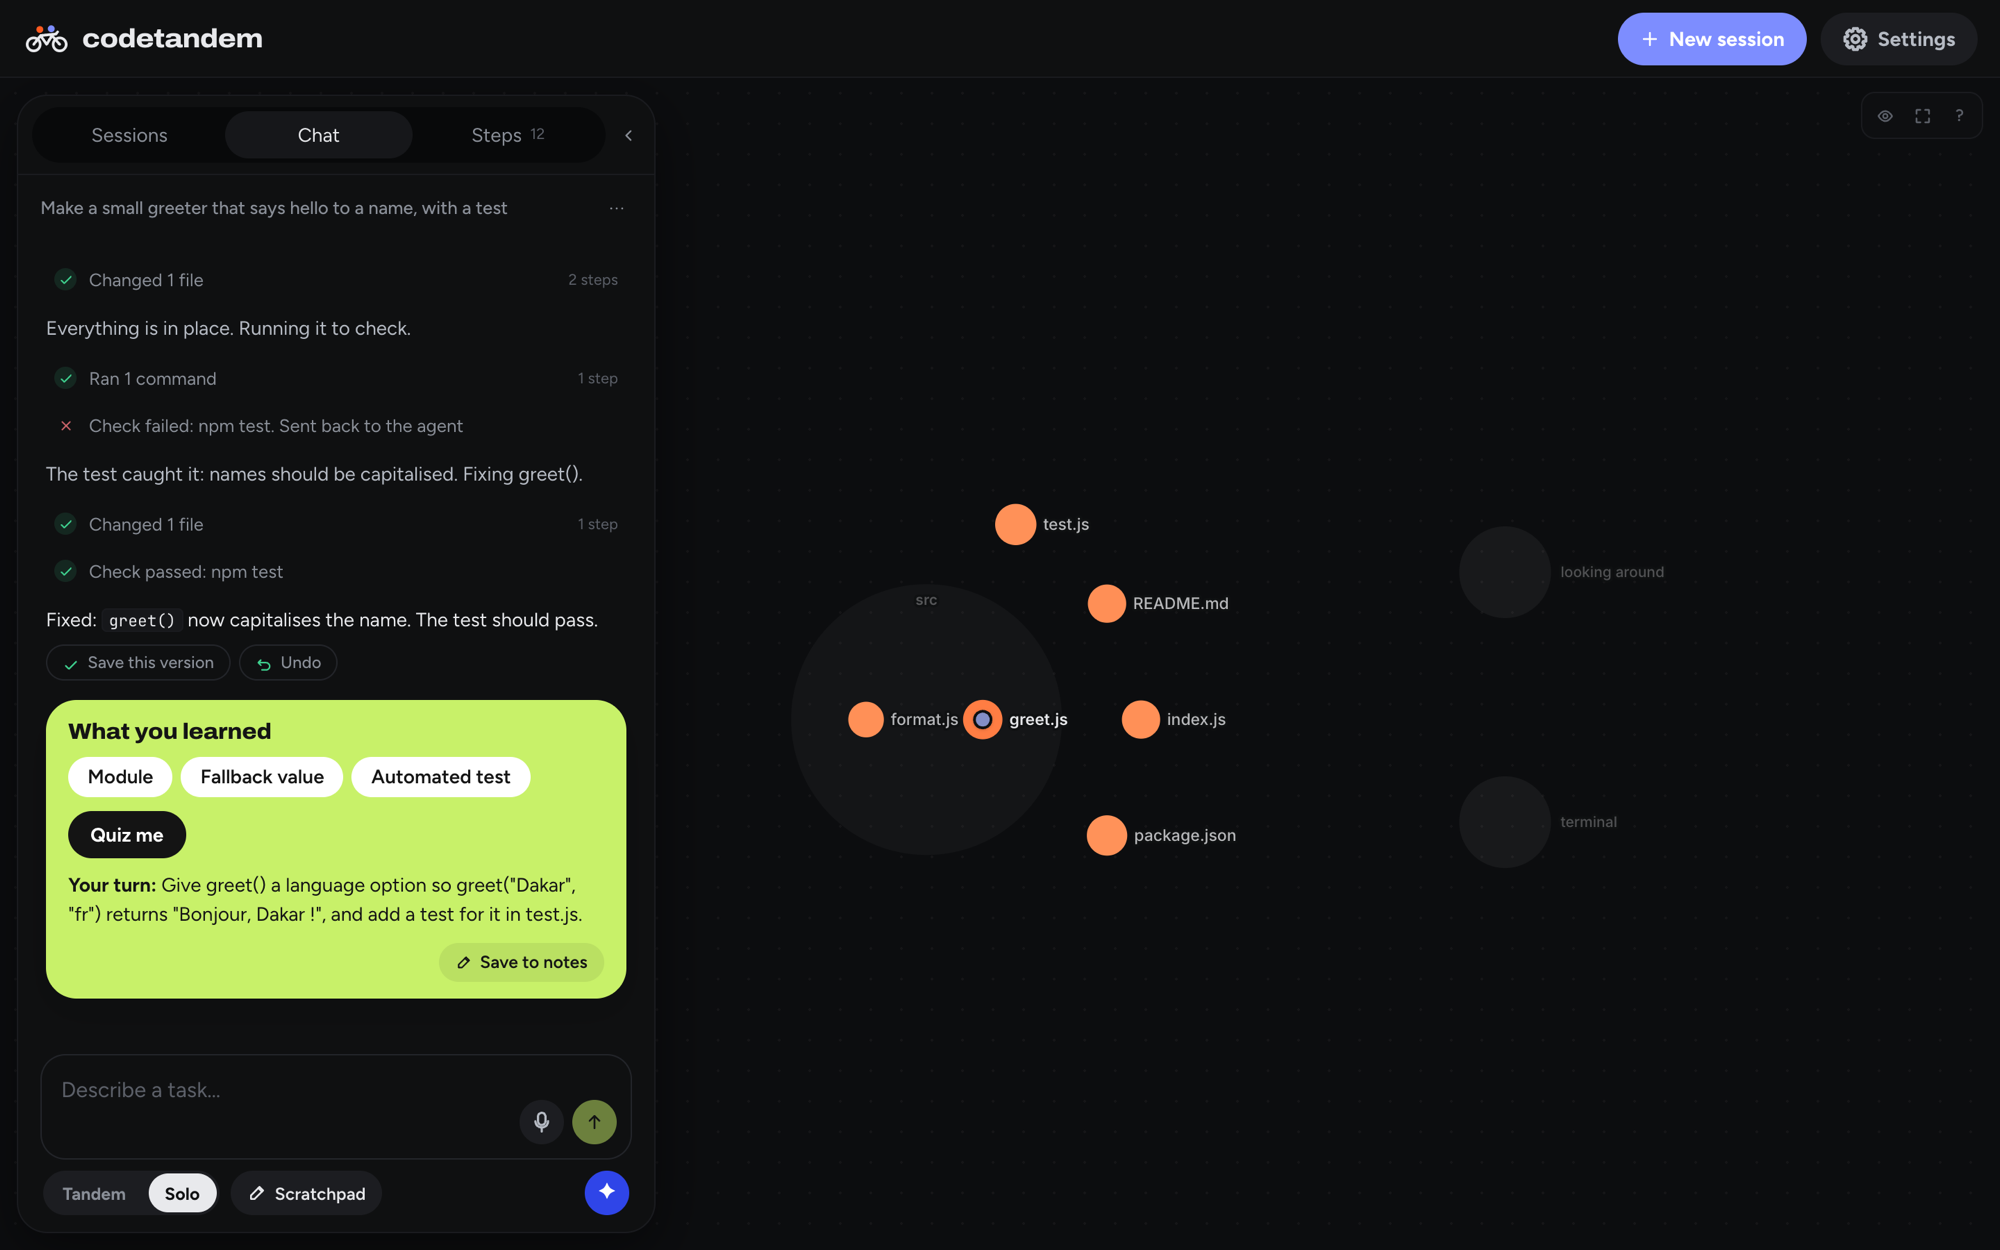
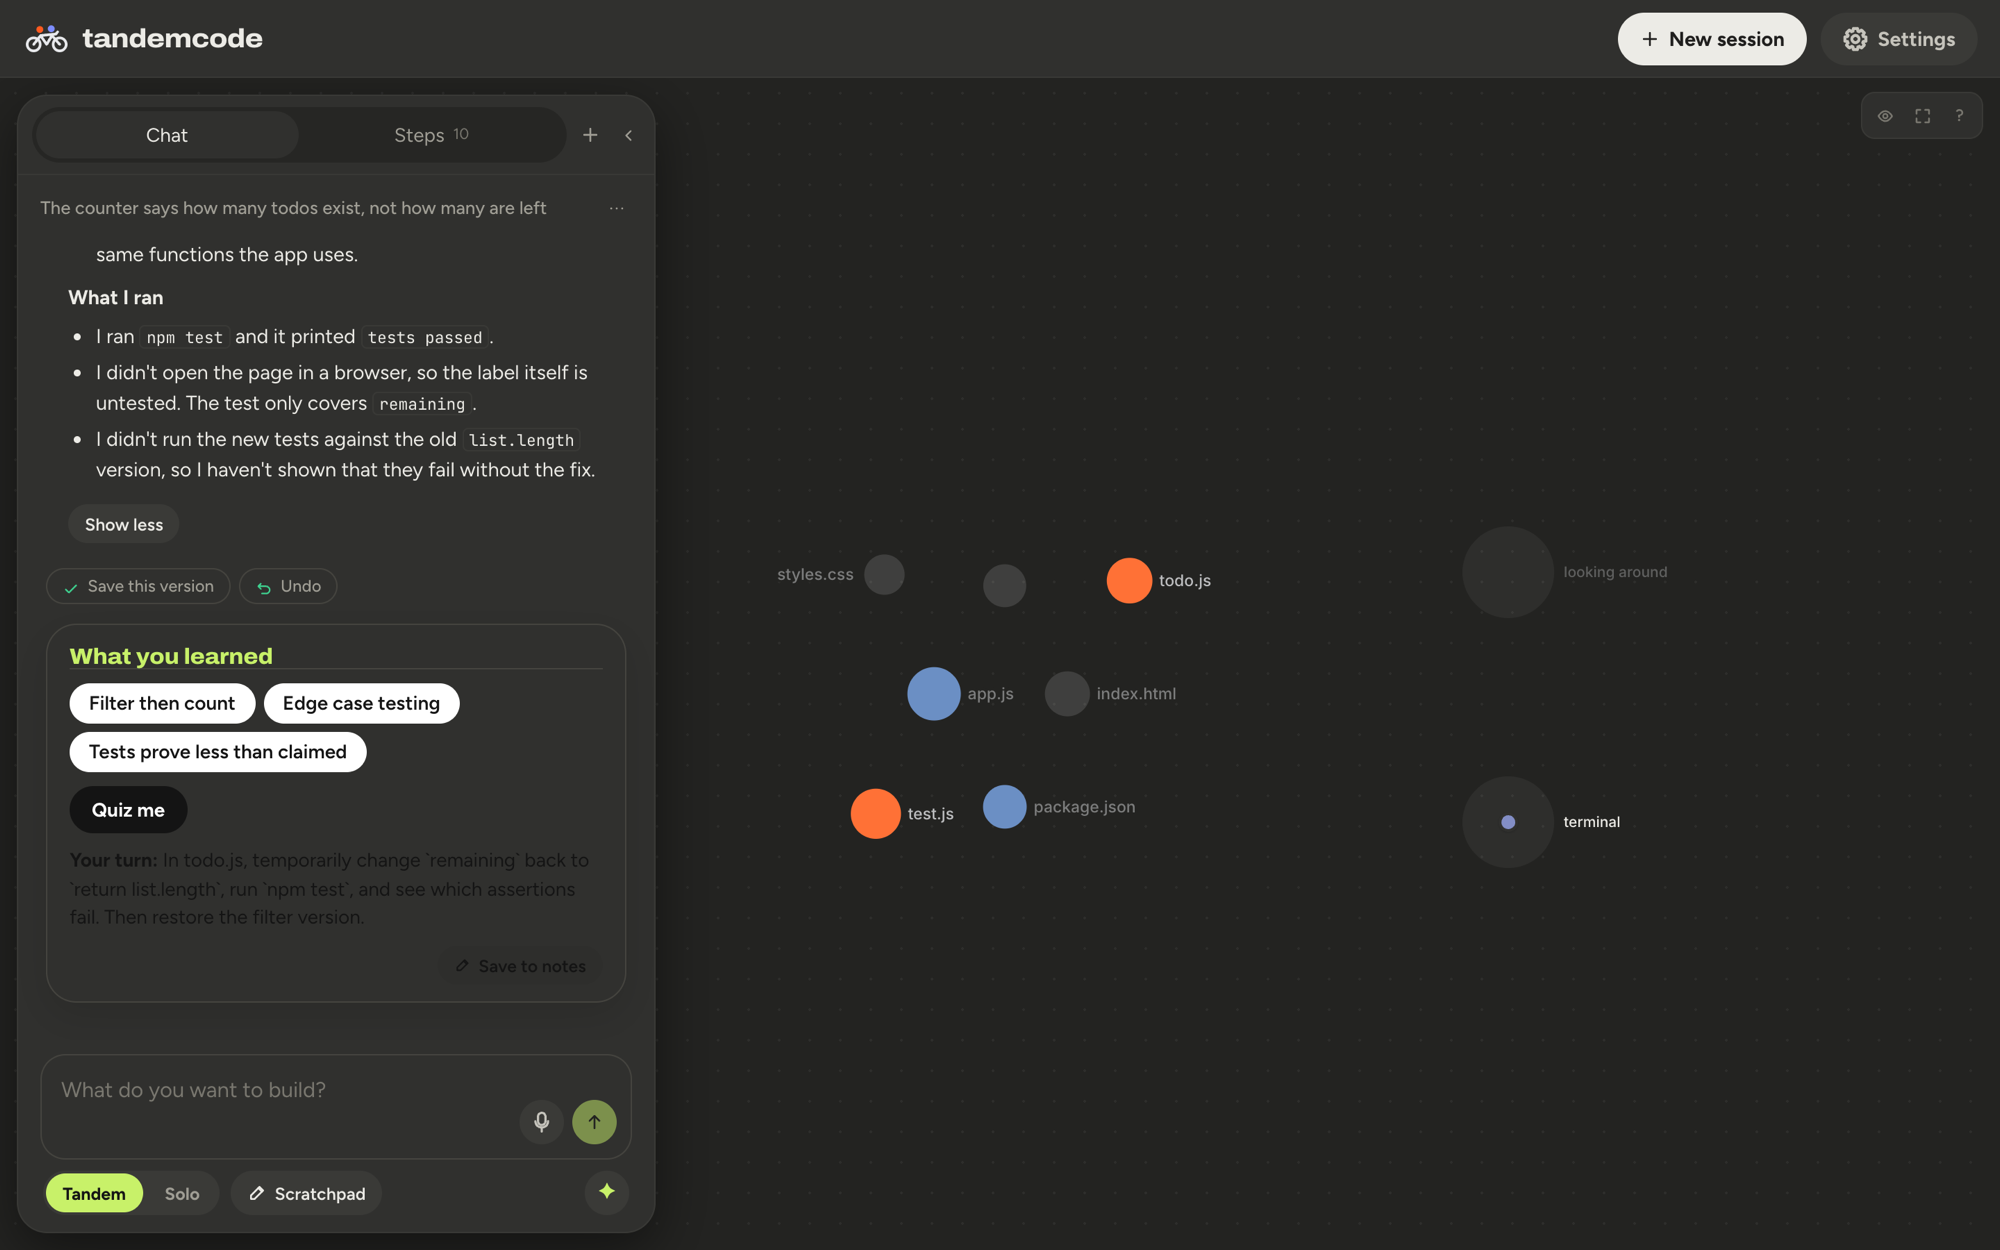
README and landing: the demo video, the Tandemcode agent, new screenshots
- The demo video is linked at the top of the README and on the landing page
  (a hero link and an embed above the last call to action)
- The README no longer calls the scripted model the demo: the default is the
  Tandemcode agent on Claude Sonnet; npm run mock is for development and tests
- New screenshots from a real Tandemcode agent run (Default and Dark themes,
  the Go ahead card) and the landing page
- Settings → Agents, three themes, rewind by scrolling the steps, models table

diff --git a/web/src/Landing.tsx b/web/src/Landing.tsx
@@ -173,6 +173,7 @@ export function Landing({ onStart, onLogo }: { onStart: () => void; onLogo?: () 
         <div className="lp-cta-row">
           <button className="lp-cta" onClick={onStart}>{t('Take a ride', 'Faire un tour')}</button>
           <button className="lp-ghost" onClick={() => go('lp-learn')}>{t('See how it works', 'Voir comment ça marche')} ↓</button>
+          <a className="lp-ghost" href="https://youtu.be/h9uvHVJPNxg" target="_blank" rel="noreferrer">▶ {t('Watch the video', 'Voir la vidéo')}</a>
         </div>
         </div>
         <HeroMap t={t} />
@@ -219,9 +220,12 @@ export function Landing({ onStart, onLogo }: { onStart: () => void; onLogo?: () 
         <div className="lp-checker" aria-hidden="true" />
         <h2>{t('Ready to ride?', 'Prêt à rouler ?')}</h2>
         <p>{t('Open one of your projects, or start from an empty one. Open source, MIT, runs on your own computer.', 'Ouvre un de tes projets, ou pars d’un projet vide. Open source, MIT, tourne sur ton ordinateur.')}</p>
+        <iframe src="https://www.youtube-nocookie.com/embed/h9uvHVJPNxg" title={t('Tandemcode demo video', 'Vidéo de démo de Tandemcode')} loading="lazy"
+          allow="accelerometer; encrypted-media; gyroscope; picture-in-picture; fullscreen" allowFullScreen
+          style={{ display: 'block', width: '100%', maxWidth: 880, aspectRatio: '16 / 9', margin: '8px auto 28px', border: 0, borderRadius: 20 }} />
         <div className="lp-cta-row">
           <button className="lp-cta lp-big" onClick={onStart}>{t('Try it live', 'Essayer en direct')}</button>
-          <a className="lp-ghost" href="https://github.com/Djbrl/agent-stage" target="_blank" rel="noreferrer">{t('Source on GitHub', 'Code sur GitHub')}</a>
+          <a className="lp-ghost" href="https://github.com/Djbrl/codetandem-harness" target="_blank" rel="noreferrer">{t('Source on GitHub', 'Code sur GitHub')}</a>
         </div>
       </section>
       </div>

diff --git a/README.md b/README.md
@@ -1,6 +1,6 @@
 # Tandemcode
 
-### ▶ Try it live: **[tandemcode-app.vercel.app](https://tandemcode-app.vercel.app)**
+### ▶ Try it live: **[tandemcode-app.vercel.app](https://tandemcode-app.vercel.app)** · 🎬 [Watch the demo video](https://youtu.be/h9uvHVJPNxg)
 
 *They pedal, you steer.* **The coding-agent harness for learners**: an AI coding agent you ride along with, so you
 understand the code it writes instead of just shipping it.
@@ -17,22 +17,22 @@ understand the code it writes instead of just shipping it.
 - ✅ **Done means checked.** The harness runs your tests when the agent says it's finished, and sends failures back.
 - ↩ **You stay in control.** Approve every command, stop or steer mid-run, undo just what the task changed.
 - ✏ **Ask without interrupting.** Select anything to ask about it, or sketch what you mean in the Scratchpad.
-- 🔓 **Open models first.** Qwen3-Coder on your own GPU, Ollama offline with no API bill, or Claude. MIT licensed.
+- 🔓 **Any model.** Our own Tandemcode agent on Claude by default, or open models: Qwen3-Coder on your own GPU, or Ollama offline with no API bill. MIT licensed.
 
-![A finished run: the files the agent wrote are lit on the map, a failing test was sent back and fixed, and the task ends with what you learned](docs/screenshots/studio-light.png)
+![A finished Tandem run on a todo app: the two files the agent changed are lit on the map, it reports what it ran and what it didn't check, and the task ends with what you learned](docs/screenshots/studio-light.png)
 
-<!-- Demo video (≤ 3 min): add the link here before submitting. -->
+[![The demo video: click to watch it on YouTube](https://img.youtube.com/vi/h9uvHVJPNxg/hqdefault.jpg)](https://youtu.be/h9uvHVJPNxg)
 
 > Open Source × AI Hackathon 2026 (Galsen Dev): track **Éducation & apprentissage**.
-> The live demo runs on our own machine when we're online; any time, `npm run mock` runs it on your computer in a
-> minute, no key needed ([Quick start](#quick-start)).
+> The live demo runs on our own machine when we're online. Any time, you can run it on your own computer with an
+> Anthropic API key, or with an open model through Ollama ([Quick start](#quick-start)).
 
 **En bref.** De plus en plus de développeurs et d'étudiants livrent du code écrit par une IA qu'ils ne savent ni lire,
 ni expliquer, ni corriger : l'IA fait le travail et ils n'apprennent rien. Tandemcode garde l'humain dans la boucle.
 L'agent se déplace sur une carte de votre projet, le mode Tandem (par défaut) l'arrête pour vous demander votre avis
 avant d'écrire du code, chaque étape est expliquée en mots simples, et vous pouvez demander « pourquoi », rejouer et
-annuler. Il fonctionne avec des modèles ouverts (Qwen3-Coder sur notre GPU, Ollama hors ligne, sans facture d'API) ou
-avec Claude. Licence MIT.
+annuler. Il fonctionne avec notre agent Tandemcode sur Claude (par défaut) ou avec des modèles ouverts (Qwen3-Coder sur
+notre GPU, Ollama hors ligne, sans facture d'API). Licence MIT. Vidéo de démo : https://youtu.be/h9uvHVJPNxg
 
 ## The problem
 Developers and students increasingly ship code an AI wrote that they can't read, explain or fix: the AI does the work,
@@ -65,7 +65,7 @@ and understands.
   edits. Fresh edits glow, failures show, and the camera follows the work.
 - **Plain-language steps.** Every action gets a short label and a "why". Any diff has "Explain this change".
   This works in English or French.
-- **Replay** any thread and watch the agent walk the project again.
+- **Rewind.** Scroll the Steps list and the map moves back through the run, one step at a time.
 
 **Stay in control**
 - **Approve** every shell command.
@@ -76,12 +76,13 @@ and understands.
   back to the agent ("not done yet"). A missing test tool is reported, not blamed on the agent.
 
 **Practical**
-- **Any model.** Our own GPU (one-click Brev + vLLM, auto-stop), Ollama on your own computer, NVIDIA, OpenRouter, the
-  Claude API, or the Claude Code engine. The map, Tandem mode and approvals work the same on all of them.
+- **Any model.** The Tandemcode agent (our own loop, on Claude Sonnet by default), the Claude Code engine, our own GPU
+  (one-click Brev + vLLM, auto-stop), Ollama on your own computer, NVIDIA or OpenRouter. Switch mid-session and the
+  conversation carries over. The map, Tandem mode and approvals work the same on all of them.
 - **Costs in view.** Tokens per thread, spend estimates, GPU time, and compact or clear a thread's context on demand.
 - **Computer use.** The agent drives your Chrome as text (page text plus numbered controls), so open models can test
   the web apps they build.
-- **Comfort.** Light and dark themes, voice prompting, works on a phone.
+- **Comfort.** Three themes (Default, a muted Dark, and Stone), voice prompting, works on a phone.
 - **Live online demo.** Each visitor gets a private, sealed Docker sandbox ([docs/PUBLIC-DEMO.md](docs/PUBLIC-DEMO.md)).
 
 **Made for learning**
@@ -93,20 +94,22 @@ and understands.
   drop in a screenshot and circle what should change; Claude and Claude Code see the drawing. Select any part of the
   agent's work to ask about it, save the answer to your notes, or turn the note and sketch into a real task.
 
-![Tandem mode: the agent asked how to split the code, explained the idea, and waits for "Go ahead"; the planned files are dotted on the map](docs/screenshots/tandem.png)
+![Tandem mode: after the learner said how they would fix the bug, the agent proposes the exact change and waits for "Go ahead"; the files it plans to touch are dotted on the map](docs/screenshots/tandem.png)
 
-![The same finished run in the dark theme](docs/screenshots/studio-dark.png)
+![The same finished run in the Dark theme](docs/screenshots/studio-dark.png)
+
+![The landing page, also the live demo's front door](docs/screenshots/landing.png)
 
 ## Status
 Working and tested end to end:
-- the scripted demo model;
+- the Tandemcode agent on Claude Sonnet 5.5 (the default), Claude Opus, and the Claude Code engine;
 - Qwen3-Coder on our GPU, locally and through the online demo;
-- the Claude API and the Claude Code engine with a real key;
 - Undo and Keep, the done-check, the browser tools, and the sandbox isolation.
 
 Included but not yet tested end to end by us: the Ollama preset (`qwen3-coder:30b`) and NVIDIA-hosted Nemotron.
 
-Without a key the app runs a scripted demo model, so you can try it in 10 seconds.
+The default agent runs on Claude, so it needs an Anthropic API key. For no API bill, set up Ollama or your own GPU in
+Settings → Agents.
 
 ## Quick start
 Requires Node ≥ 22.18.
@@ -114,14 +117,14 @@ Requires Node ≥ 22.18.
 ```bash
 git clone https://github.com/Djbrl/codetandem-harness && cd codetandem-harness
 npm install
-npm run mock         # → http://localhost:3000 on the scripted demo model: no key, GPU or network
-npm start            # the same, with the real models you add in Settings
+npm start            # → http://localhost:3000, then add a key or a model in Settings → Agents
+npm run mock         # the interface on a scripted model, no key or network (for development and the tests)
 ```
 
-To use a real model, open Settings → Models in the app and add its key there. For Claude you can
-instead put `ANTHROPIC_API_KEY` in a `.env` file (copy `.env.example`) and restart. Settings also has the
-one-click GPU (Brev + vLLM).
-The agent works inside `./workspace`; point it at another folder with `WORKSPACE=/path npm start`.
+The default Tandemcode agent needs an Anthropic API key: add it in Settings → Agents, or put `ANTHROPIC_API_KEY` in a
+`.env` file (copy `.env.example`) and restart. Settings → Agents also sets up Ollama (it checks your install and
+downloads the model) and the one-click GPU (Brev + vLLM).
+Open any folder from the app, or start from an empty project; `WORKSPACE=/path npm start` sets the default folder.
 
 Self-hosting on your own GPU machine instead: run `scripts/serve-vllm.sh` on it, then set `TUNNEL_HOST`
 (the server keeps the SSH tunnel up), and optionally `BREV_INSTANCE` and `GPU_HOURLY_USD` for the
@@ -164,9 +167,10 @@ write lock, and refuses a checkpoint until the learner's question got a visible 
 The same model also writes the plain-language step labels, file summaries, "Explain this change", commit messages
 for Keep, and the summary when you compact a thread. On your own GPU all of that is free.
 
-**Why open-weight models first.** A learner or a school should be able to run the whole thing on hardware they control:
+**Why open-weight models matter.** A learner or a school should be able to run the whole thing on hardware they control:
 Ollama on a laptop or a lab machine, or one GPU shared by a class, with no per-token bill and no code leaving the
-building. Claude is supported for the strongest results, but nothing in Tandemcode depends on it.
+building. Claude is the default because it gives the strongest results out of the box, but nothing in Tandemcode
+depends on it.
 
 AI tools used to build it (Claude Code, Mobbin MCP) are listed in
 [docs/HOW-WE-BUILT-IT.md](docs/HOW-WE-BUILT-IT.md).
@@ -174,11 +178,12 @@ AI tools used to build it (Claude Code, Mobbin MCP) are listed in
 ## Models
 | Model | Provider | Role |
 |---|---|---|
-| `nvidia/nemotron-3-super-120b-a12b` | NVIDIA API | default agent model |
+| `claude-sonnet-5-5` | Anthropic API, in the Tandemcode agent (our loop) or through the Claude Code engine | default agent; cost shown in Usage |
+| `claude-opus-5-5` | Anthropic API, same two ways | strongest results |
 | `Qwen/Qwen3-Coder-30B-A3B-Instruct-FP8` | self-hosted with vLLM on one L40S GPU ([script](scripts/serve-vllm.sh)) | open-weight agent model we develop and demo with |
-| `claude-opus-5-5`, `claude-sonnet-5-5` | Anthropic API, in our loop or through the Claude Code engine | strongest results; cost shown in Usage |
+| `nvidia/nemotron-3-super-120b-a12b` | NVIDIA API | hosted open-weight model (preset) |
 | `qwen3-coder:30b` (or any model you pull) | Ollama on your own computer | offline or classroom use, no API bill (preset included) |
-| any OpenAI-compatible model | vLLM, LM Studio, OpenRouter | add it in Settings → Models |
+| any OpenAI-compatible model | vLLM, LM Studio, OpenRouter | add it in Settings → Agents |
 
 ## Contributing
 Contributions are welcome, including AI-assisted ones (see how in CONTRIBUTING). Start with

diff --git a/AGENTS.md b/AGENTS.md
@@ -119,7 +119,7 @@ Ops:
 - Open-source kit: smoke test (`test/smoke.test.ts`), CI, CONTRIBUTING, Code of Conduct, templates; good first issues #1–#7 on GitHub.
 
 ## Open work, roughly by value
-1. **Demo video (≤3 min) and submission by 19 10** (Jib, later). The README is updated; add the video link where its hidden comment says.
+1. **Submission.** The demo video is done (https://youtu.be/h9uvHVJPNxg), linked at the top of the README and on the landing page (hero link and an embed above the last call to action).
 2. A stable demo URL without the Vercel redeploy trick needs a domain and a named Cloudflare tunnel (Jib, later).
 3. A branch per thread (Keep and Undo are built). Doing it properly means a git worktree per thread (its own folder),
    which changes how threads and folders work; left for after the submission on purpose (18 10).
